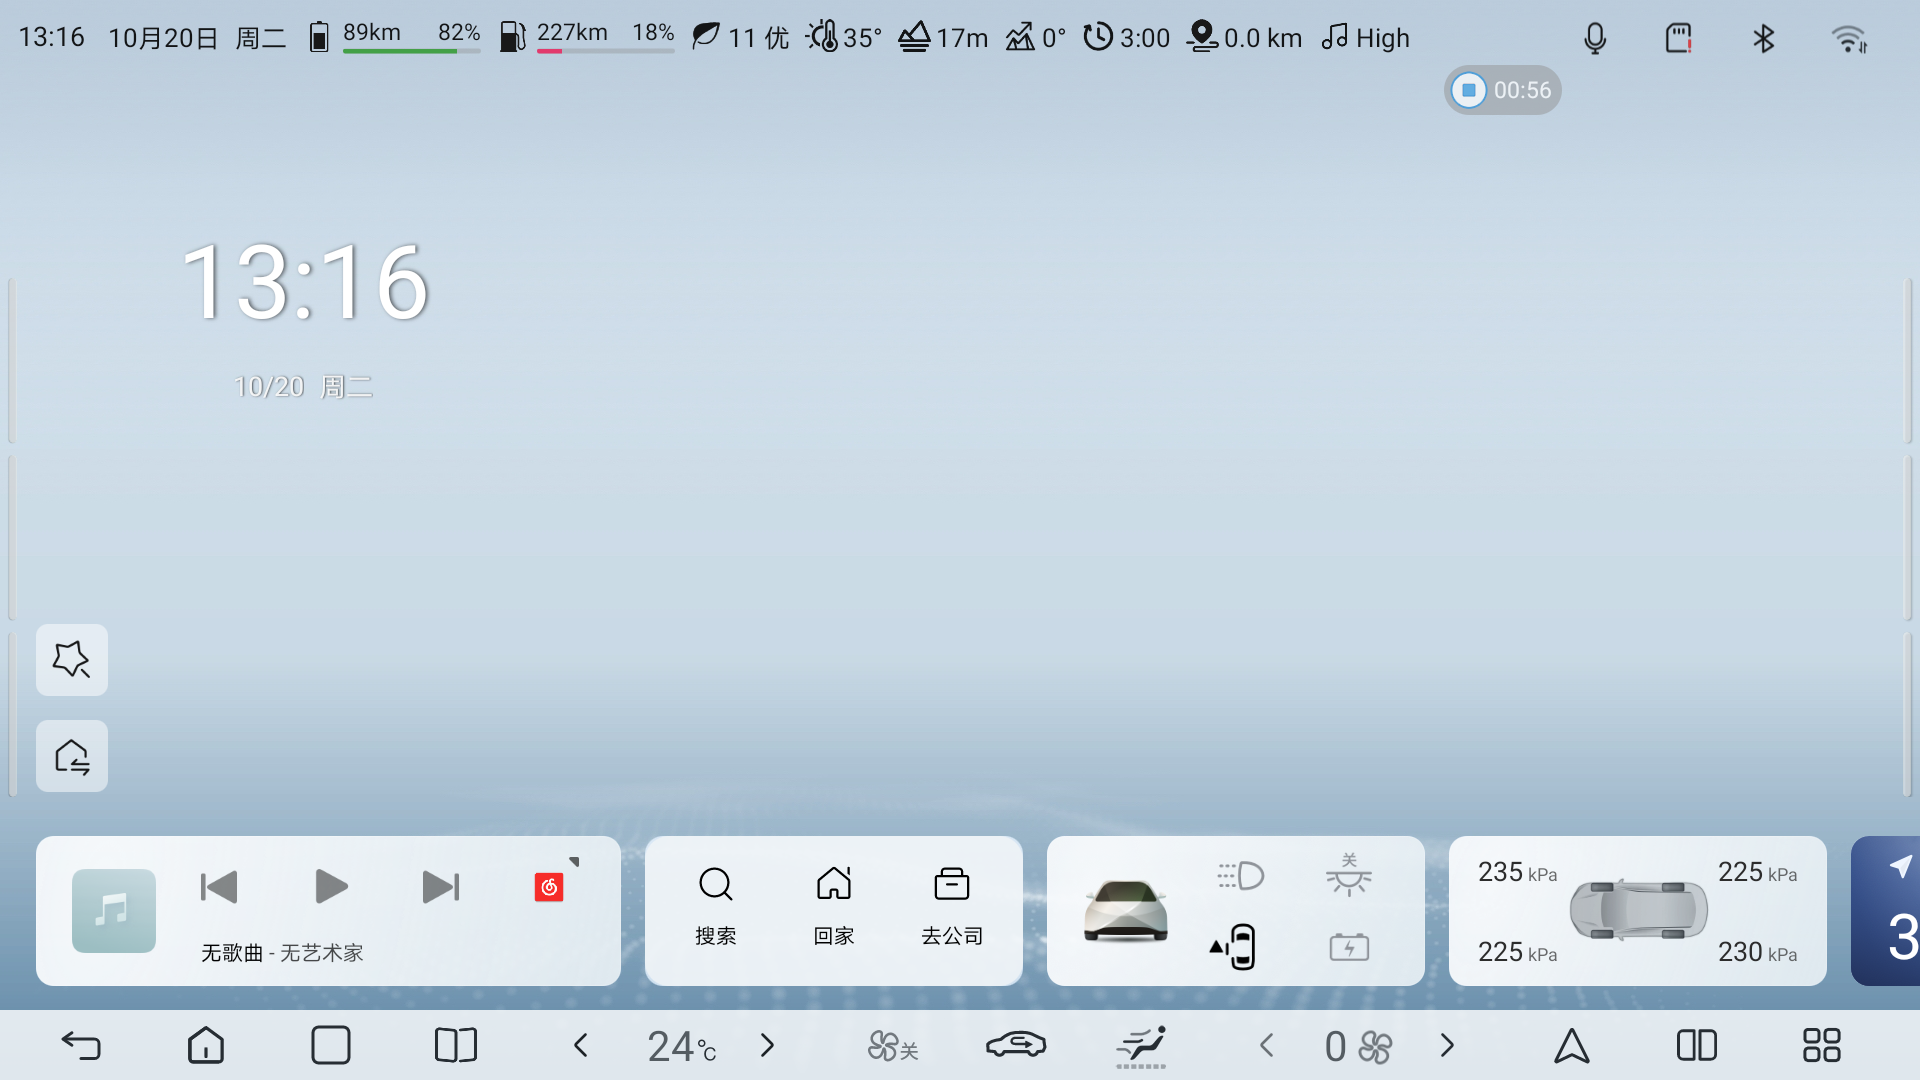
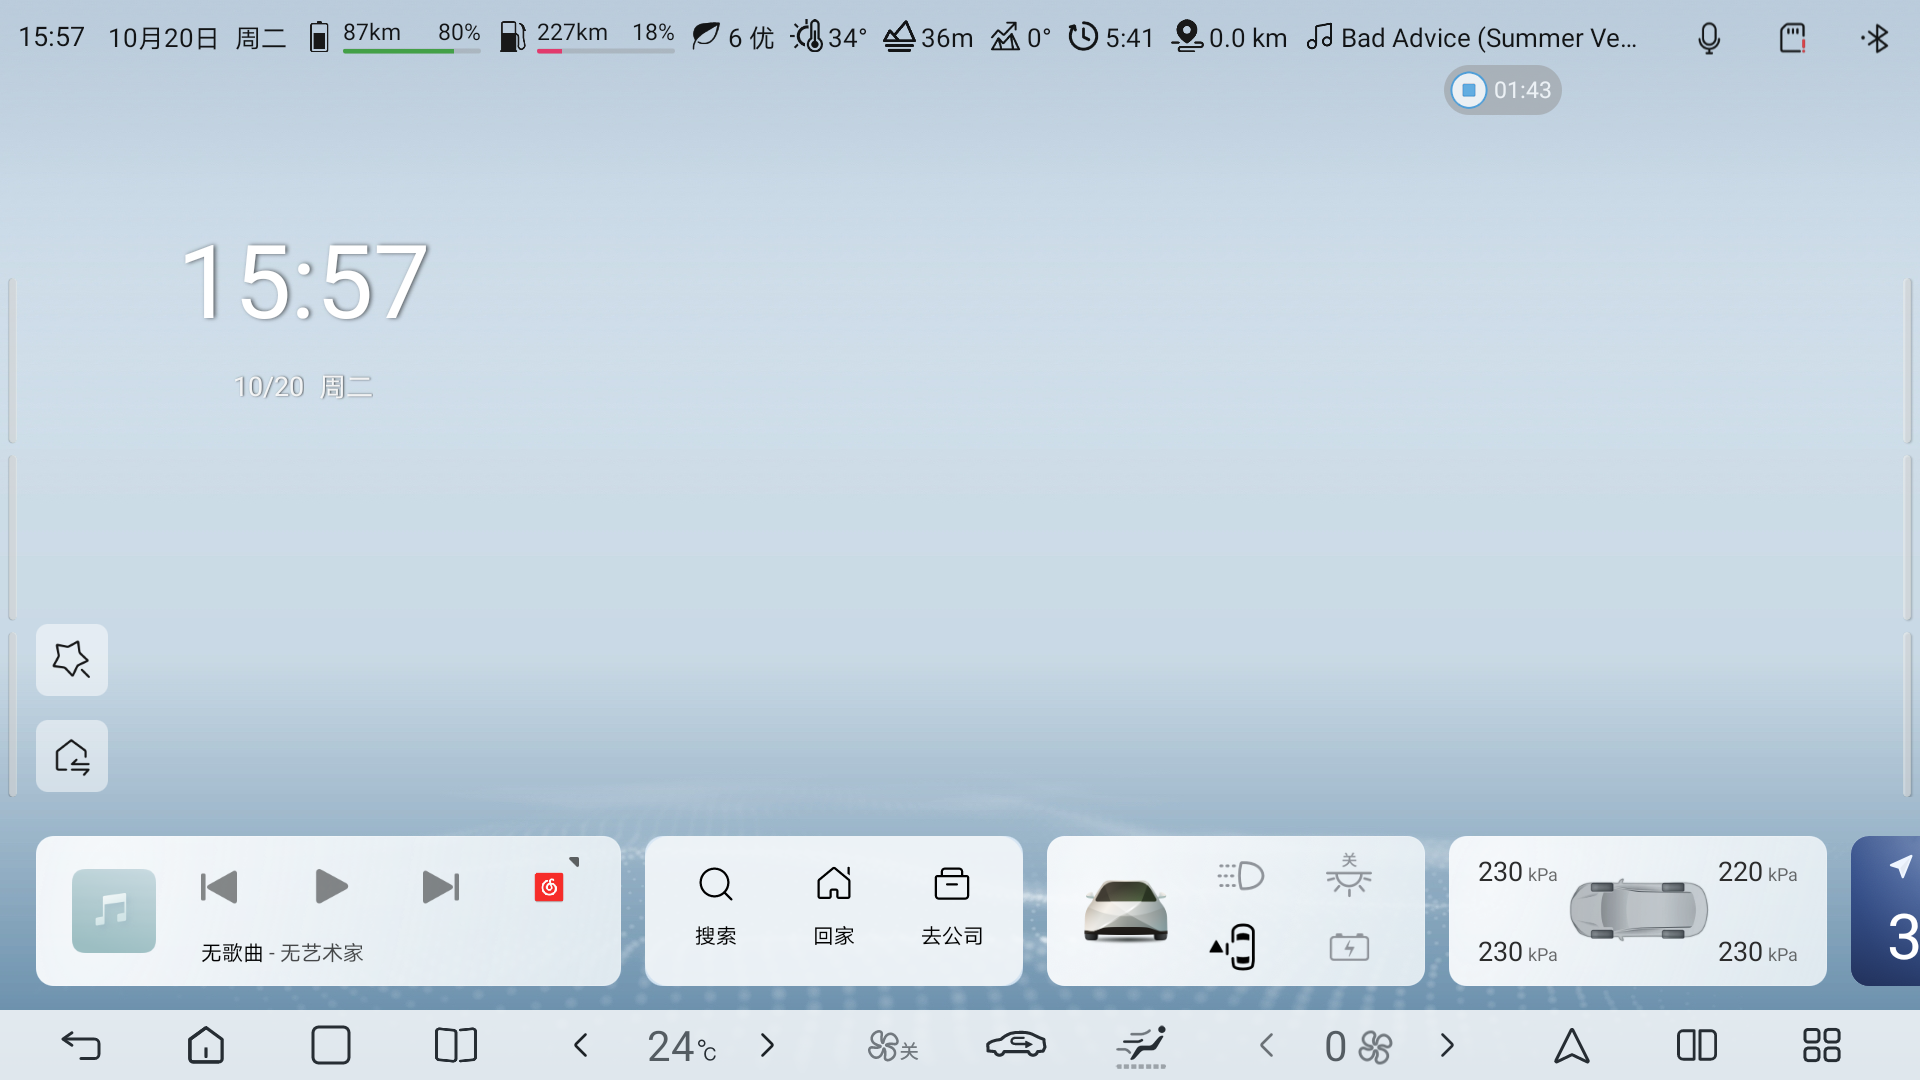
Replace README screenshots with actual module screenshots

diff --git a/README.md b/README.md
@@ -38,8 +38,8 @@ An Xposed module for BYD automotive Dlink infotainment system, providing extensi
 ### Settings Interface
 ![Settings Home](screenshots/settings_home.png)
 
-### Bar Color Customization
-![Bar Color Settings](screenshots/settings_bar_color.png)
+### Split-Screen Feature
+![Split Screen](screenshots/split_screen.png)
 
 ### Main Interface
 ![Main Interface](screenshots/main_interface.png)
@@ -156,8 +156,8 @@ This module modifies system behavior. Use at your own risk. The author is not re
 ### 设置界面
 ![设置主页](screenshots/settings_home.png)
 
-### 栏颜色设置
-![栏颜色设置](screenshots/settings_bar_color.png)
+### 分屏功能
+![分屏效果](screenshots/split_screen.png)
 
 ### 主界面效果
 ![主界面](screenshots/main_interface.png)
